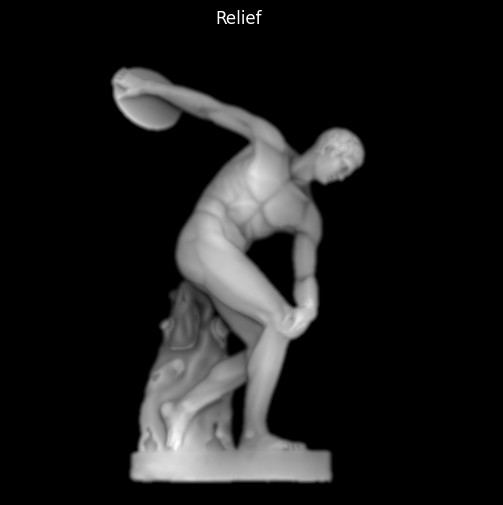
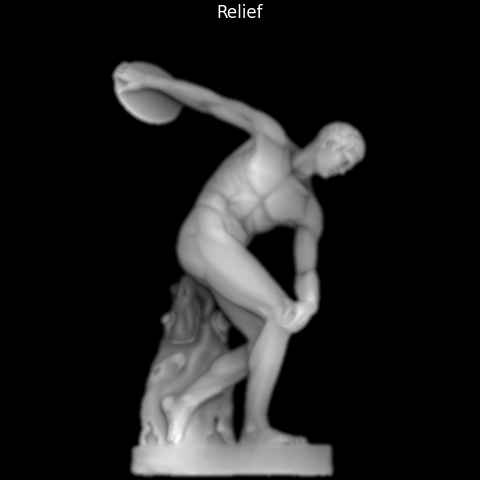
Crop README images.

Changed region(s): [[0.2188, 0.125, 0.7812, 1.0], [0.4062, 0.0, 0.5625, 0.0625]]

diff --git a/README.md b/README.md
@@ -6,8 +6,9 @@ ModelRelief uses image processing to selectively compress the height variations 
 ## About
 ModelRelief is a tool for scultural designers who create low-reliefs from 3D models.  
 
-A 3D model cannot be linearly scaled to the desired depth because it removes detail. For example, simply scaling a 3D model produces an unsatisfying result.
 ### Linear Scaling Loses Detail
+A 3D model cannot be linearly scaled to the desired depth because it removes detail. For example, simply scaling a 3D model produces an unsatisfying result.
+
 |3D Model|Linear Scaling|
 |-|-|
 |![3D Model](./ModelRelief/Delivery/images/ExplorerModel3D.png)|![3D Model](./ModelRelief/Delivery/images/ExplorerMeshRaw.png)|
@@ -160,5 +161,5 @@ For additional credits, please see the [Technical Credits](https://www.modelreli
 ## License
 ModelRelief is open source with an MIT license.
 
-[MIT](./MIT-License.md)
+[MIT](./MIT-License.txt)
 
